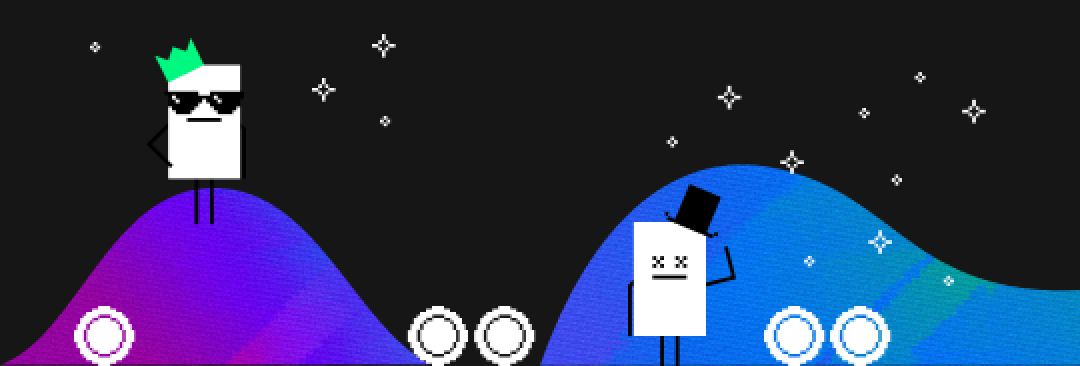
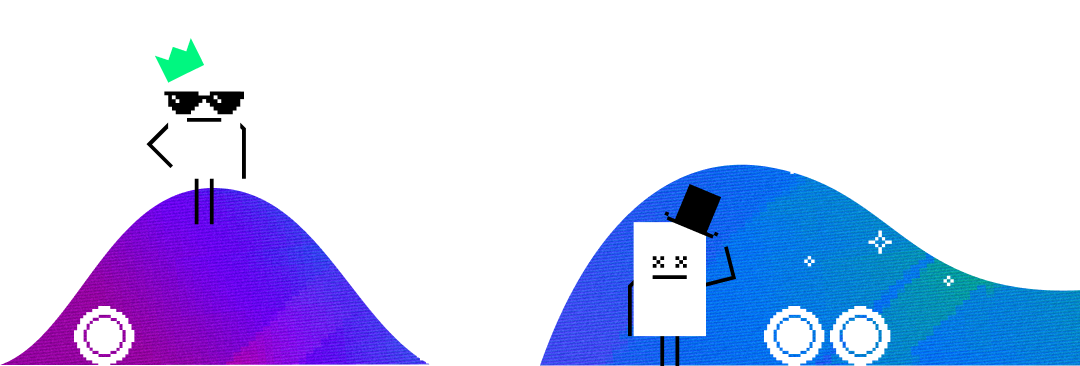
fix appearance of callout components in light mode (#152)

diff --git a/src/components/Callout.js b/src/components/Callout.js
@@ -4,7 +4,7 @@ import { GatsbyImage } from "gatsby-plugin-image";
 
 const Callout = ({ title, text, linkText, link, image }) => {
   return (
-    <div className="border border-white/20 rounded-xl bg-vega-box-grey mb-16">
+    <div className="border dark:border-white/20 border-black rounded-xl dark:bg-vega-box-grey bg-white mb-16">
       <div
         className={`grid place-content-end ${
           image ? "grid-cols-2" : "grid-cols-1"
